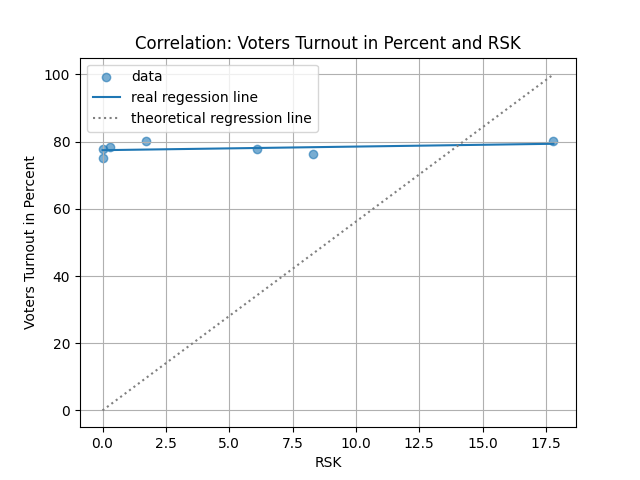
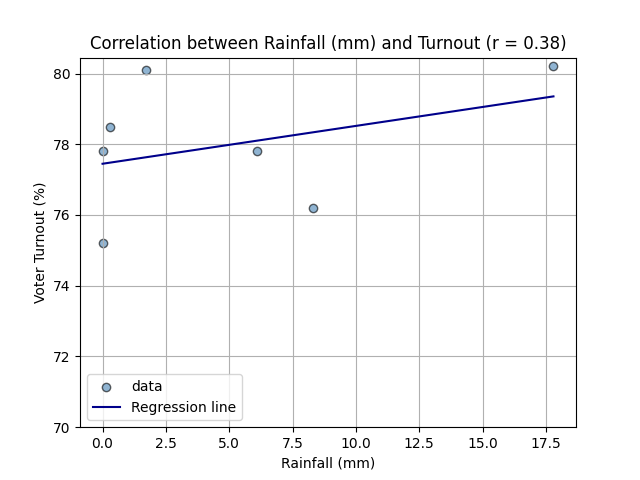
refactor: update correlation naming and remove unused files in results/ ; enhance test docstrings; clean import

diff --git a/tests/test_unusable_weather_factors.py b/tests/test_unusable_weather_factors.py
@@ -12,6 +12,7 @@ from bin.calculate_correlation import relevant_columns
 
 
 def test_unusable_TMK():
+    """Test that TMK is unusable due to insufficient data for correlation."""
     df1 = pd.DataFrame({
         "TMK": [19, 20, 23, 22, np.nan],
         "target": [60, 63, 62, 70, 62]
@@ -20,6 +21,7 @@ def test_unusable_TMK():
         relevant_columns(df1, ["TMK"], "target")
 
 def test_usable_RSK():
+    """Test that RSK is usable for correlation with sufficient data."""
     df2 = pd.DataFrame({
         "RSK": [1, 2, 4, 3, 5],
         "target": [60, 63, 62, 70, 62]
@@ -29,6 +31,7 @@ def test_usable_RSK():
     assert "RSK" not in unusable        
 
 def test_empty_TMK():
+    """Test that TMK is unusable due to being completely empty."""
     df3 = pd.DataFrame({
         "TMK": [np.nan, np.nan, np.nan, np.nan, np.nan],
         "target": [60, 63, 62, 70, 62]
@@ -37,6 +40,7 @@ def test_empty_TMK():
         relevant_columns(df3, ["TMK"], "target")
 
 def test_mixed_factor_categories():
+    """Test that RSK is unusable due to mixed factor categories and TMK is usable."""
     df4 = pd.DataFrame({
         "RSK": [1, np.nan, 4, np.nan, 5],
         "target": [60, 63, 62, 70, 62],
@@ -47,6 +51,7 @@ def test_mixed_factor_categories():
     assert "TMK" in usable
 
 def test_missing_target():
+    """Test that an error is raised if the target column is missing."""
     df5 = pd.DataFrame({
         "TMK": [19, 20, 23, 22, 25],
         "RSK": [1, 2, 3, 4, 5]

diff --git a/tests/test_clean_missing.py b/tests/test_clean_missing.py
@@ -10,6 +10,8 @@ from bin.clean_missing import clean_missing
 
 
 def test_replace_missing_values(tmp_path):
+    """Test replacing missing values (-999) with NaN in weather data."""
+
     df1 = pd.DataFrame({
     "RSK": [-999, 1, -999, 2, 3, -999]
     })
@@ -19,6 +21,7 @@ def test_replace_missing_values(tmp_path):
     assert (cleaned1["RSK"] == -99).sum() == 0 
 
 def test_only_missing_values(tmp_path):
+    """Test the replacement if one weather data has only missing values."""
     df2 = pd.DataFrame({
     "RSK": [-999, -999, -999, -999]
     })
@@ -29,6 +32,7 @@ def test_only_missing_values(tmp_path):
     
 
 def test_no_replace_needed(tmp_path):
+    """Test that no replacement occurs if there are no missing values."""
     df3 = pd.DataFrame({
     "RSK": [1, 1, 4, 2, 3, 0]
     })
@@ -39,6 +43,7 @@ def test_no_replace_needed(tmp_path):
 
 
 def test_no_replace_needed_bc_no_weather_column(tmp_path):
+    """Test that no replacement occurs if there is no weather column."""
     df4 = pd.DataFrame({
     "T": [1, 1, 4, 2, 3, 0, -999]
     })
@@ -49,6 +54,7 @@ def test_no_replace_needed_bc_no_weather_column(tmp_path):
 
 
 def test_empty(tmp_path):
+    """Test that an empty DataFrame is handled correctly."""
     df5 = pd.DataFrame({
     "RSK": []
     })

diff --git a/tests/test_calculate_correlation.py b/tests/test_calculate_correlation.py
@@ -2,6 +2,7 @@ import pandas as pd
 import numpy as np
 
 def test_positive_corr():
+    """Test positive correlation between weather factor and voter turnout."""
     df1 = pd.DataFrame({
         "TMK": [0,5,10,15,25], 
         "voter_turnout_pct": [70,75,80,85,90]
@@ -11,6 +12,7 @@ def test_positive_corr():
     assert corr1 > 0
 
 def test_negative_corr():
+    """Test negative correlation between weather factor and voter turnout."""
     df2 = pd.DataFrame({
         "TMK": [0,5,10,15,25], 
         "voter_turnout_pct": [90,86,80,75,70]
@@ -20,6 +22,7 @@ def test_negative_corr():
     assert corr2 < 0
 
 def test_empty_values_corr():
+    """Test correlation with empty values in the weather factor and election data."""
     df3 = pd.DataFrame({
         "TMK": [], 
         "voter_turnout_pct": []
@@ -29,6 +32,7 @@ def test_empty_values_corr():
     assert "TMK" not in corr_matrix.columns or pd.isna(corr_matrix.get("voter_turnout_pct", {}).get("TMK", np.nan))
 
 def test_constant_values_corr():
+    """Test correlation with constant values in the weather factor and election data."""
     df4 = pd.DataFrame({
         "TMK": [5, 5, 5, 5, 5],
         "voter_turnout_pct": [70, 70, 70, 70, 70]

diff --git a/bin/merge_data.py b/bin/merge_data.py
@@ -1,6 +1,5 @@
 """Merge weather data from multiple cities with voter turnout data."""
 
-from bin.read_in import read_in
 import pandas as pd
 import argparse
 import os
@@ -13,6 +12,8 @@ sys.path.insert(
         os.path.join(
             os.path.dirname(__file__),
             '..')))
+
+from bin.read_in import read_in
 
 
 def merging(weather_to_city):
@@ -70,7 +71,7 @@ def merging(weather_to_city):
 
     # one table with all cities and their weather values on election day
     weather_df = pd.concat(all_merged, ignore_index=True)
-    print(f"weather data loaded and combined")
+    print("weather data loaded and combined")
     print(weather_df)
     # load and merge voter turnout
     election_df = read_in("data/dataset_election.csv", sep=",")

diff --git a/bin/calculate_correlation.py b/bin/calculate_correlation.py
@@ -1,7 +1,5 @@
 """Calculate correlations between weather variables and voter turnout."""
 
-from bin.read_in import read_in
-import pandas as pd
 import argparse
 import sys
 import os
@@ -13,6 +11,8 @@ sys.path.insert(
         os.path.join(
             os.path.dirname(__file__),
             '..')))
+
+from bin.read_in import read_in
 
 
 def relevant_columns(df, weather_factors, target):
@@ -124,7 +124,7 @@ def main():
     usable, _ = relevant_columns(df, weather_factors, target)
     correlation = test_corr(df, target, usable)
 
-    result_df = correlation.to_frame(name="correlation_with_turnout")
+    result_df = correlation.to_frame(name="correlation")
     result_df.index.name = "weather_variable"
     result_df.to_csv(args.output)
 

diff --git a/tests/test_visualize.py b/tests/test_visualize.py
@@ -9,6 +9,7 @@ sys.path.insert(0, os.path.abspath(os.path.join(os.path.dirname(__file__), '..')
 from bin.visualize import visualize 
 
 def test_plot(tmp_path):
+    """Test that the visualization function creates a plot with the expected data."""
     df = pd.DataFrame({
         "TMK": [20, 22, 25],
         "voter_turnout_pct": [60, 65, 70]
@@ -21,6 +22,8 @@ def test_plot(tmp_path):
     assert os.path.exists(file_path)
 
 def test_empty_data(tmp_path):
+    """Test that the visualization function handles empty data correctly
+    by raising a ValueError."""
     df = pd.DataFrame({
         "TMK": [],
         "voter_turnout_pct": []

diff --git a/bin/visualize.py b/bin/visualize.py
@@ -1,8 +1,5 @@
 """Visualize correlations between weather and voter turnout as scatter plots."""
 
-from bin.calculate_correlation import relevant_columns
-from bin.read_in import read_in
-import pandas as pd
 import argparse
 import numpy as np
 import matplotlib.pyplot as plt
@@ -17,6 +14,8 @@ sys.path.insert(
             os.path.dirname(__file__),
             '..')))
 
+from bin.calculate_correlation import relevant_columns
+from bin.read_in import read_in
 
 # Pretty labels for axes
 pretty_labels = {

diff --git a/bin/unusable_weather_factors.py b/bin/unusable_weather_factors.py
@@ -1,7 +1,5 @@
 """Identify and report weather factors excluded from correlation analysis."""
 
-from bin.read_in import read_in
-from bin.calculate_correlation import relevant_columns
 import pandas as pd
 import argparse
 import sys
@@ -15,6 +13,8 @@ sys.path.insert(
             os.path.dirname(__file__),
             '..')))
 
+from bin.read_in import read_in
+from bin.calculate_correlation import relevant_columns
 
 def weather_factor_with_no_corr(factor, output_path):
     """

diff --git a/bin/clean_missing.py b/bin/clean_missing.py
@@ -1,8 +1,6 @@
 """Clean missing weather values (-999) and export cleaned dataset."""
 
-from bin.read_in import read_in
 import argparse
-import pandas as pd
 import numpy as np
 import os
 import sys
@@ -14,6 +12,8 @@ sys.path.insert(
         os.path.join(
             os.path.dirname(__file__),
             '..')))
+
+from bin.read_in import read_in
 
 
 def clean_missing(df, output_file):
